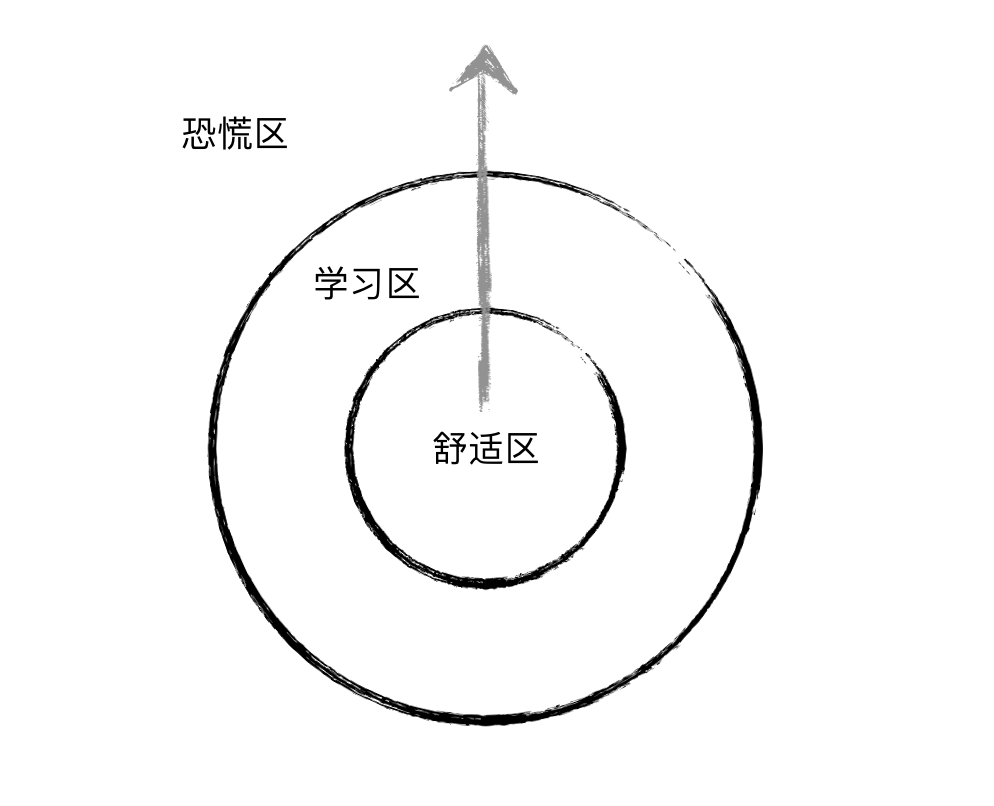
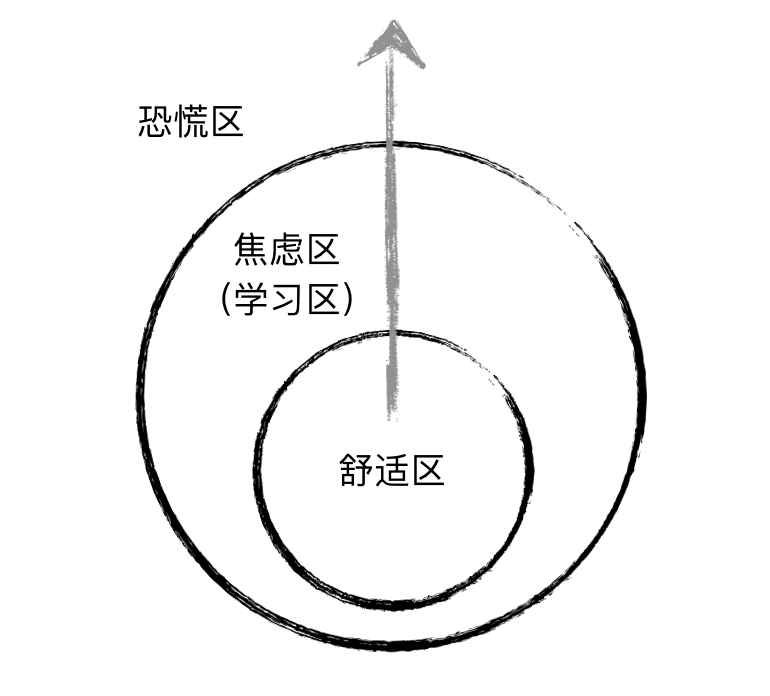
fix

diff --git a/src/part-4/04-fe-self-learning.md b/src/part-4/04-fe-self-learning.md
@@ -48,7 +48,7 @@
 
 ### 时不时跳出舒适区
 
-人的认知领域可以划分为这三个区域：舒适区（comfort zone），学习区（或焦虑区，learning zone），以及恐慌区（panic zone）。如下图所示。
+人的认知领域可以划分为这三个区域：舒适区（comfort zone），学习区（或焦虑区，learning zone），以及恐慌区（panic zone，也叫做危险区）。如下图所示。
 
 <img src="./images/comfort-zone.png" style="width: 320px;">
 
